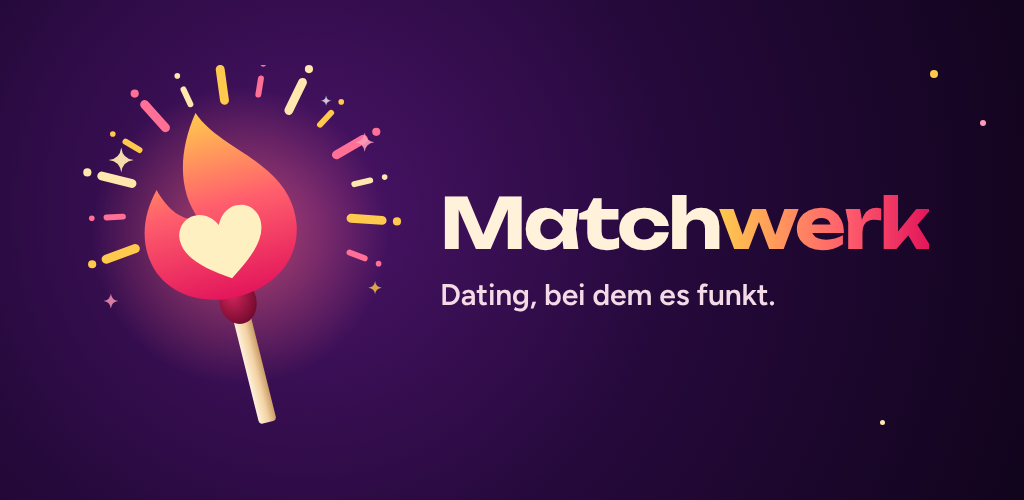
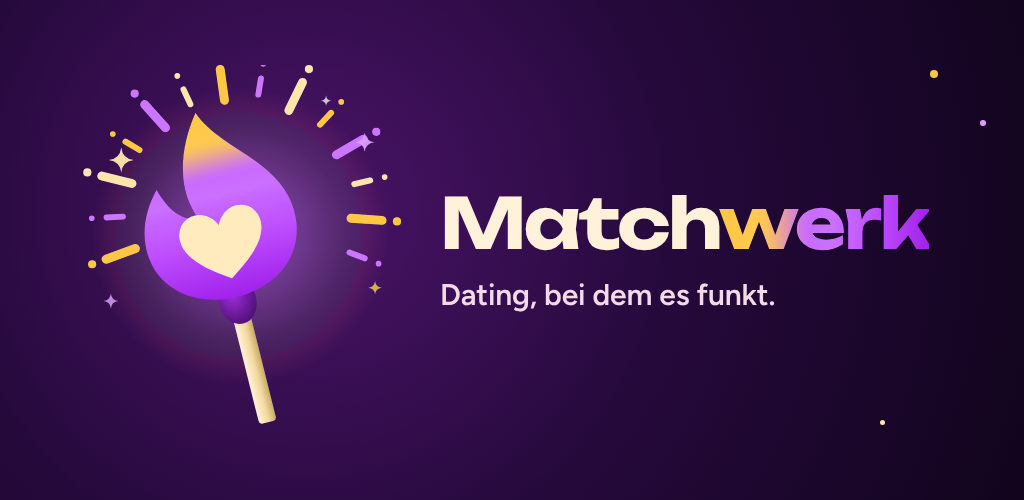
Recolour the flame to gold and violet; Funken become a gold spark
Removes the pink/red/orange flame look:
- Logo, feature graphic, app icon, splash and favicon recoloured (gold top,
  violet bottom); originals kept in assets/brand/original, script included
- Accent colour is now match-head gold, hearts are violet
- Funken use a sparkle icon, flame emoji replaced throughout the app

Claude-Session: https://claude.ai/code/session_01VYhq9Hb544a6kubykhshie

diff --git a/src/app/premium.tsx b/src/app/premium.tsx
@@ -22,7 +22,7 @@ const REASON_TEXT: Partial<Record<LimitReason, string>> = {
   extend: 'Mit Matchwerk+ kannst du Matches so oft verlängern, wie du willst.',
 };
 
-const VIP_GOLD = ['#F5B301', '#FF8A3D'] as const;
+const VIP_GOLD = ['#F2B544', '#B9781C'] as const;
 
 export default function Premium() {
   const { reason } = useLocalSearchParams<{ reason?: LimitReason }>();
@@ -54,7 +54,7 @@ export default function Premium() {
       const ok = await buy(plan);
       if (!ok) return;
       setLimits(await backend.getLimits());
-      const title = plan.kind === 'subscription' ? `Willkommen bei ${TIER_NAMES[plan.tier!]} 🔥` : plan.kind === 'funken' ? `${plan.title} gekauft 🔥` : `${plan.title} gekauft ⚡`;
+      const title = plan.kind === 'subscription' ? `Willkommen bei ${TIER_NAMES[plan.tier!]} ✨` : plan.kind === 'funken' ? `${plan.title} gekauft ✨` : `${plan.title} gekauft ⚡`;
       const text = plan.kind === 'subscription' ? 'Alle Vorteile sind ab sofort freigeschaltet.'
         : plan.kind === 'funken' ? 'Sie werden automatisch genutzt, wenn deine täglichen Funken aufgebraucht sind.'
         : 'Du aktivierst ihn mit dem Blitz oben auf dem Entdecken-Bildschirm.';
@@ -83,12 +83,12 @@ export default function Premium() {
   const savings = (p: StorePlan) =>
     monthly && p.months && p.months > 1 ? Math.round((1 - p.price / (monthly.price * p.months)) * 100) : 0;
 
-  const Pack = ({ p, icon }: { p: StorePlan; icon: 'flame' | 'flash' }) => (
+  const Pack = ({ p, icon }: { p: StorePlan; icon: 'sparkles' | 'flash' }) => (
     <Pressable onPress={() => purchase(p)} disabled={!!busy} accessibilityRole="button"
       style={({ pressed }) => [styles.pack, { borderColor: c.border, backgroundColor: c.surface, opacity: pressed ? 0.8 : 1 }]}>
       {busy === p.id ? <ActivityIndicator color={Brand.primary} /> : (
         <>
-          <Ionicons name={icon} size={22} color={icon === 'flame' ? Brand.accent : Brand.super} />
+          <Ionicons name={icon} size={22} color={icon === 'sparkles' ? Brand.accent : Brand.super} />
           <T style={{ fontWeight: '800', fontSize: 15, textAlign: 'center' }}>{p.title}</T>
           <T style={{ color: Brand.primary, fontWeight: '700', fontSize: 14 }}>{p.priceString}</T>
         </>
@@ -179,9 +179,9 @@ export default function Premium() {
 
           {funken.length > 0 && (
             <View style={{ gap: Space.sm }}>
-              <T variant="h3">🔥 Funken einzeln</T>
+              <T variant="h3">✨ Funken einzeln</T>
               <T muted variant="small">Ein Funke zeigt sofort, dass du es ernst meinst – dein Profil erscheint ganz oben in den Likes. Gekaufte Funken verfallen nicht.</T>
-              <View style={styles.row}>{funken.map((p) => <Pack key={p.id} p={p} icon="flame" />)}</View>
+              <View style={styles.row}>{funken.map((p) => <Pack key={p.id} p={p} icon="sparkles" />)}</View>
               {limits && limits.funkenCredits > 0 && <T muted variant="small">Du hast {limits.funkenCredits} gekaufte Funken übrig.</T>}
             </View>
           )}

diff --git a/src/app/(tabs)/likes.tsx b/src/app/(tabs)/likes.tsx
@@ -62,7 +62,7 @@ export default function Likes() {
               onPress={() => router.push({ pathname: '/profile/[id]', params: { id: item.profile.id, from: 'likes' } })}>
               <Image source={item.profile.photos[0]} style={StyleSheet.absoluteFill} contentFit="cover" />
               {item.action === 'superlike' && (
-                <View style={[styles.tag, { backgroundColor: Brand.accent }]}><Ionicons name="flame" size={13} color="#fff" /></View>
+                <View style={[styles.tag, { backgroundColor: Brand.accent }]}><Ionicons name="sparkles" size={13} color="#fff" /></View>
               )}
               <LinearGradient colors={['transparent', 'rgba(0,0,0,0.85)']} style={styles.tileBottom}>
                 {item.note?.comment && (
@@ -73,7 +73,7 @@ export default function Likes() {
                 <Text style={styles.name}>
                   {item.profile.name}, {ageFrom(item.profile.birthdate)} {item.profile.verified ? '✓' : ''}
                 </Text>
-                {score != null && <Text style={styles.score}>🔥 {score}% Match</Text>}
+                {score != null && <Text style={styles.score}>✨ {score}% Match</Text>}
               </LinearGradient>
             </Pressable>
           );

diff --git a/src/app/(tabs)/index.tsx b/src/app/(tabs)/index.tsx
@@ -176,7 +176,7 @@ export default function Discover() {
             locations={[0, 0.6]} style={styles.fade} />
           <View style={styles.actions} pointerEvents="box-none">
             <IconButton icon="close" color={Brand.pass} size={60} label="Weiter" onPress={() => decide(deck[0], 'pass')} />
-            <IconButton icon="flame" color={Brand.accent} size={52} label="Funke senden" onPress={() => decide(deck[0], 'superlike')} />
+            <IconButton icon="sparkles" color={Brand.accent} size={52} label="Funke senden" onPress={() => decide(deck[0], 'superlike')} />
             <IconButton icon={mode === 'friends' ? 'hand-left' : 'heart'} color={mode === 'friends' ? Brand.super : Brand.heart} size={60}
               label={mode === 'friends' ? 'Verbinden' : 'Like'} onPress={() => decide(deck[0], 'like')} />
           </View>

diff --git a/src/constants/theme.ts b/src/constants/theme.ts
@@ -2,16 +2,17 @@ import { Platform, useColorScheme } from 'react-native';
 
 /**
  * Matchwerk's own palette, taken from the logo: night plum + violet as the main colour,
- * match-flame orange and gold only as accents (hearts, Funken, highlights), warm cream on dark.
+ * match-head gold as the accent (Funken, Daily Spark, highlights), warm cream on dark.
  * Deliberately distinct from the pink/red-orange look of other dating apps.
  */
 export const Brand = {
   primary: '#8338D0',
   primaryDark: '#5E1E99',
-  accent: '#FF7A3D',
+  /** match-head gold: Funken, Daily Spark, highlights */
+  accent: '#E9A92E',
   gradient: ['#9046DB', '#5E1E99'] as const,
   /** hearts and likes */
-  heart: '#FF6A3D',
+  heart: '#8338D0',
   /** logo background */
   night: '#2A0E3F',
   nightDeep: '#160620',

diff --git a/src/app/profile/[id].tsx b/src/app/profile/[id].tsx
@@ -110,7 +110,7 @@ export default function ProfileScreen() {
           locations={[0, 0.45]}
           style={[styles.bottom, { paddingBottom: insets.bottom + 12 }]}>
           <IconButton icon="close" color={Brand.pass} size={60} label="Weiter" onPress={() => act('pass')} />
-          <IconButton icon="flame" color={Brand.accent} size={48} label="Funke" onPress={() => act('superlike')} />
+          <IconButton icon="sparkles" color={Brand.accent} size={48} label="Funke" onPress={() => act('superlike')} />
           <IconButton icon={mode === 'friends' ? 'hand-left' : 'heart'} color={mode === 'friends' ? Brand.super : Brand.heart} size={60} label={mode === 'friends' ? 'Verbinden' : 'Like'} onPress={() => act('like')} />
         </LinearGradient>
       )}

diff --git a/src/lib/plans.ts b/src/lib/plans.ts
@@ -44,7 +44,7 @@ export interface FeatureRow { icon: string; title: string; free: string; plus: s
 export const FEATURES: FeatureRow[] = [
   { icon: 'images', title: 'Profile pro Tag', free: '60', plus: '250', vip: '∞' },
   { icon: 'heart', title: 'Likes pro Tag', free: '25', plus: '∞', vip: '∞' },
-  { icon: 'flame', title: 'Funken pro Tag', free: '1', plus: '3', vip: '7' },
+  { icon: 'sparkles', title: 'Funken pro Tag', free: '1', plus: '3', vip: '7' },
   { icon: 'flash', title: 'Boost (30 Min. ganz oben)', free: '–', plus: '1 / Monat', vip: '1 / Woche' },
   { icon: 'time', title: 'Matches verlängern', free: '1×', plus: '∞', vip: '∞' },
   { icon: 'trending-up', title: 'Bevorzugt angezeigt', free: '–', plus: '–', vip: '✓' },

diff --git a/src/app/chat/[id].tsx b/src/app/chat/[id].tsx
@@ -98,7 +98,7 @@ export default function Chat() {
         ListHeaderComponent={
           <View style={styles.intro}>
             <Image source={p.photos[0]} style={styles.introImg} />
-            <T variant="h2" style={{ textAlign: 'center' }}>{match.mode === 'friends' ? `Du und ${p.name} seid verbunden 👋` : `Du und ${p.name} habt ein Match 🔥`}</T>
+            <T variant="h2" style={{ textAlign: 'center' }}>{match.mode === 'friends' ? `Du und ${p.name} seid verbunden 👋` : `Du und ${p.name} habt ein Match ✨`}</T>
             {first && (
               <T muted style={{ textAlign: 'center' }}>
                 {waiting

diff --git a/src/app/(tabs)/_layout.tsx b/src/app/(tabs)/_layout.tsx
@@ -8,7 +8,7 @@ export default function TabsLayout() {
     <NativeTabs tintColor={Brand.primary} backgroundColor={c.background}>
       <NativeTabs.Trigger name="index">
         <NativeTabs.Trigger.Label>Entdecken</NativeTabs.Trigger.Label>
-        <NativeTabs.Trigger.Icon sf={{ default: 'flame', selected: 'flame.fill' }} md="local_fire_department" />
+        <NativeTabs.Trigger.Icon sf={{ default: 'sparkles', selected: 'sparkles' }} md="auto_awesome" />
       </NativeTabs.Trigger>
       <NativeTabs.Trigger name="likes">
         <NativeTabs.Trigger.Label>Likes</NativeTabs.Trigger.Label>

diff --git a/src/components/mode-switch.tsx b/src/components/mode-switch.tsx
@@ -18,7 +18,7 @@ export function ModeSwitch() {
           <Pressable key={m} onPress={() => setMode(m)} accessibilityRole="tab" accessibilityState={{ selected: on }}
             style={[styles.seg, on && { backgroundColor: c.card, shadowOpacity: 0.12 }]}>
             <Text style={[styles.text, { color: on ? (m === 'friends' ? Brand.super : Brand.primary) : c.textSecondary }]}>
-              {m === 'friends' ? '👋 ' : '🔥 '}{MODE_LABELS[m]}
+              {m === 'friends' ? '👋 ' : '💜 '}{MODE_LABELS[m]}
             </Text>
           </Pressable>
         );

diff --git a/src/app/edit-profile.tsx b/src/app/edit-profile.tsx
@@ -24,7 +24,7 @@ function ModePicker({ value, onChange }: { value: Mode[]; onChange: (m: Mode[]) 
   };
   return (
     <View style={{ flexDirection: 'row', flexWrap: 'wrap', gap: 8 }}>
-      <Chip icon="🔥" label="Dating" selected={value.includes('dating')} onPress={() => toggle('dating')} />
+      <Chip icon="💜" label="Dating" selected={value.includes('dating')} onPress={() => toggle('dating')} />
       <Chip icon="👋" label="Neue Freunde" selected={value.includes('friends')} onPress={() => toggle('friends')} />
     </View>
   );

diff --git a/src/app/onboarding.tsx b/src/app/onboarding.tsx
@@ -22,7 +22,7 @@ function ModePicker({ value, onChange }: { value: Mode[]; onChange: (m: Mode[]) 
   };
   return (
     <View style={{ flexDirection: 'row', flexWrap: 'wrap', gap: 8 }}>
-      <Chip icon="🔥" label="Dating" selected={value.includes('dating')} onPress={() => toggle('dating')} />
+      <Chip icon="💜" label="Dating" selected={value.includes('dating')} onPress={() => toggle('dating')} />
       <Chip icon="👋" label="Neue Freunde" selected={value.includes('friends')} onPress={() => toggle('friends')} />
     </View>
   );

diff --git a/src/app/auth.tsx b/src/app/auth.tsx
@@ -9,7 +9,7 @@ import { Brand, Radius } from '@/constants/theme';
 import { APP } from '@/constants/app';
 
 const USPS: [string, string][] = [
-  ['🔥', 'Sieh kostenlos, wer dich mag – und warum ihr passt'],
+  ['✨', 'Sieh kostenlos, wer dich mag – und warum ihr passt'],
   ['💬', 'Like ein Foto oder eine Antwort – mit Kommentar'],
   ['👋', 'Dating oder neue Freunde – oder beides'],
   ['🛡', 'Verifizierte Profile und Melden in jedem Chat'],
